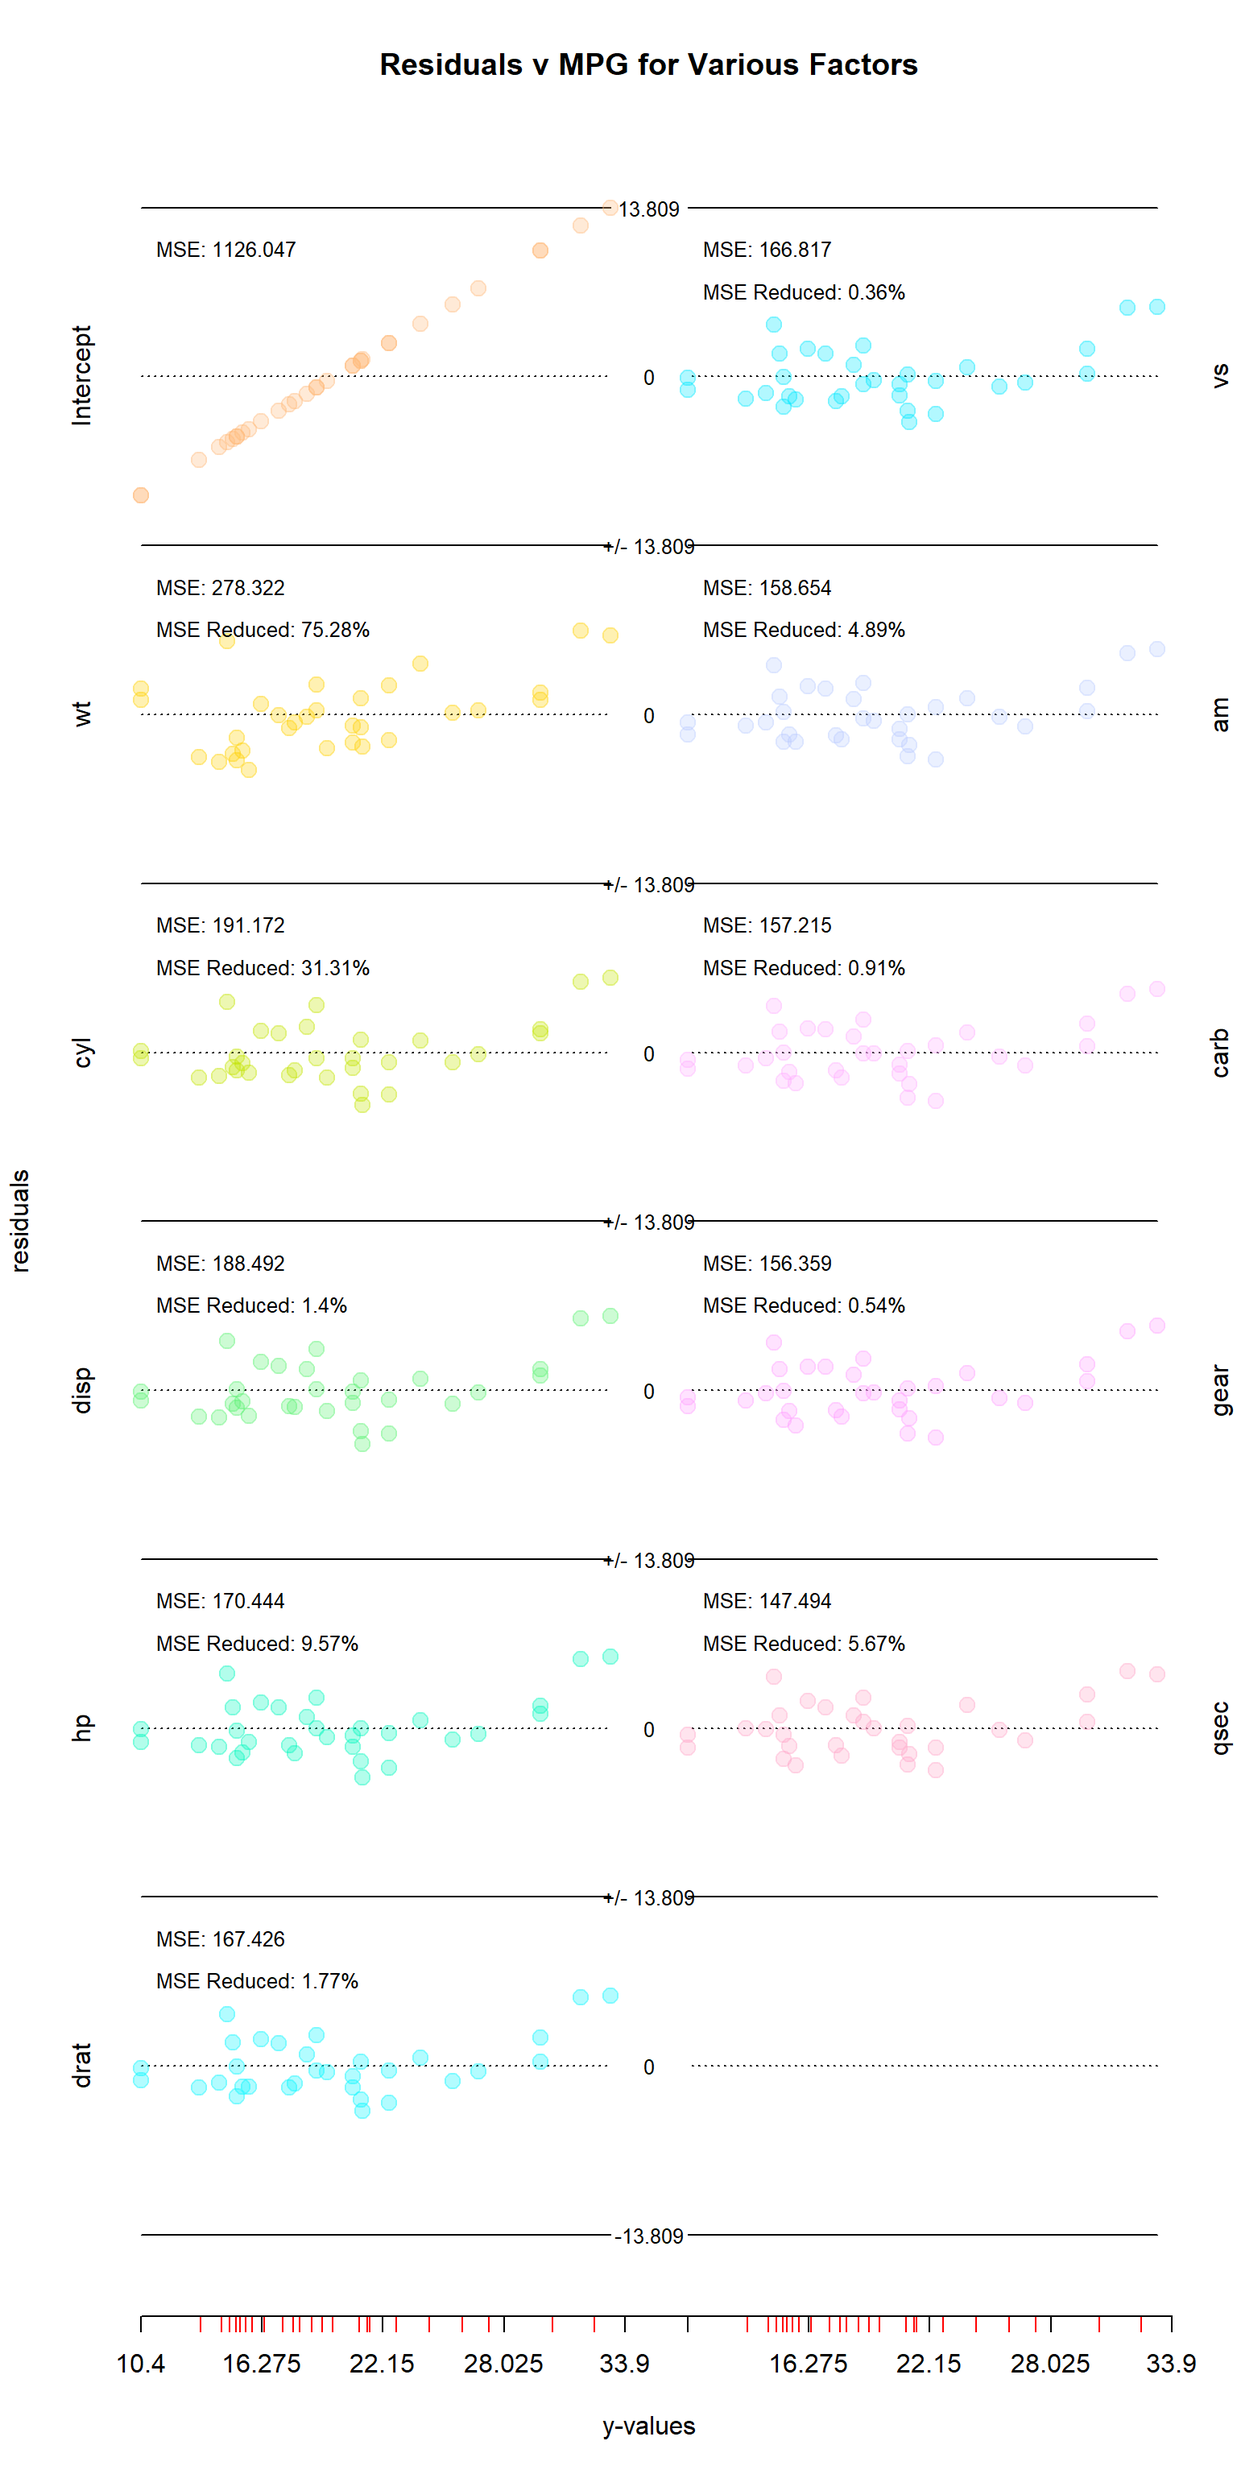
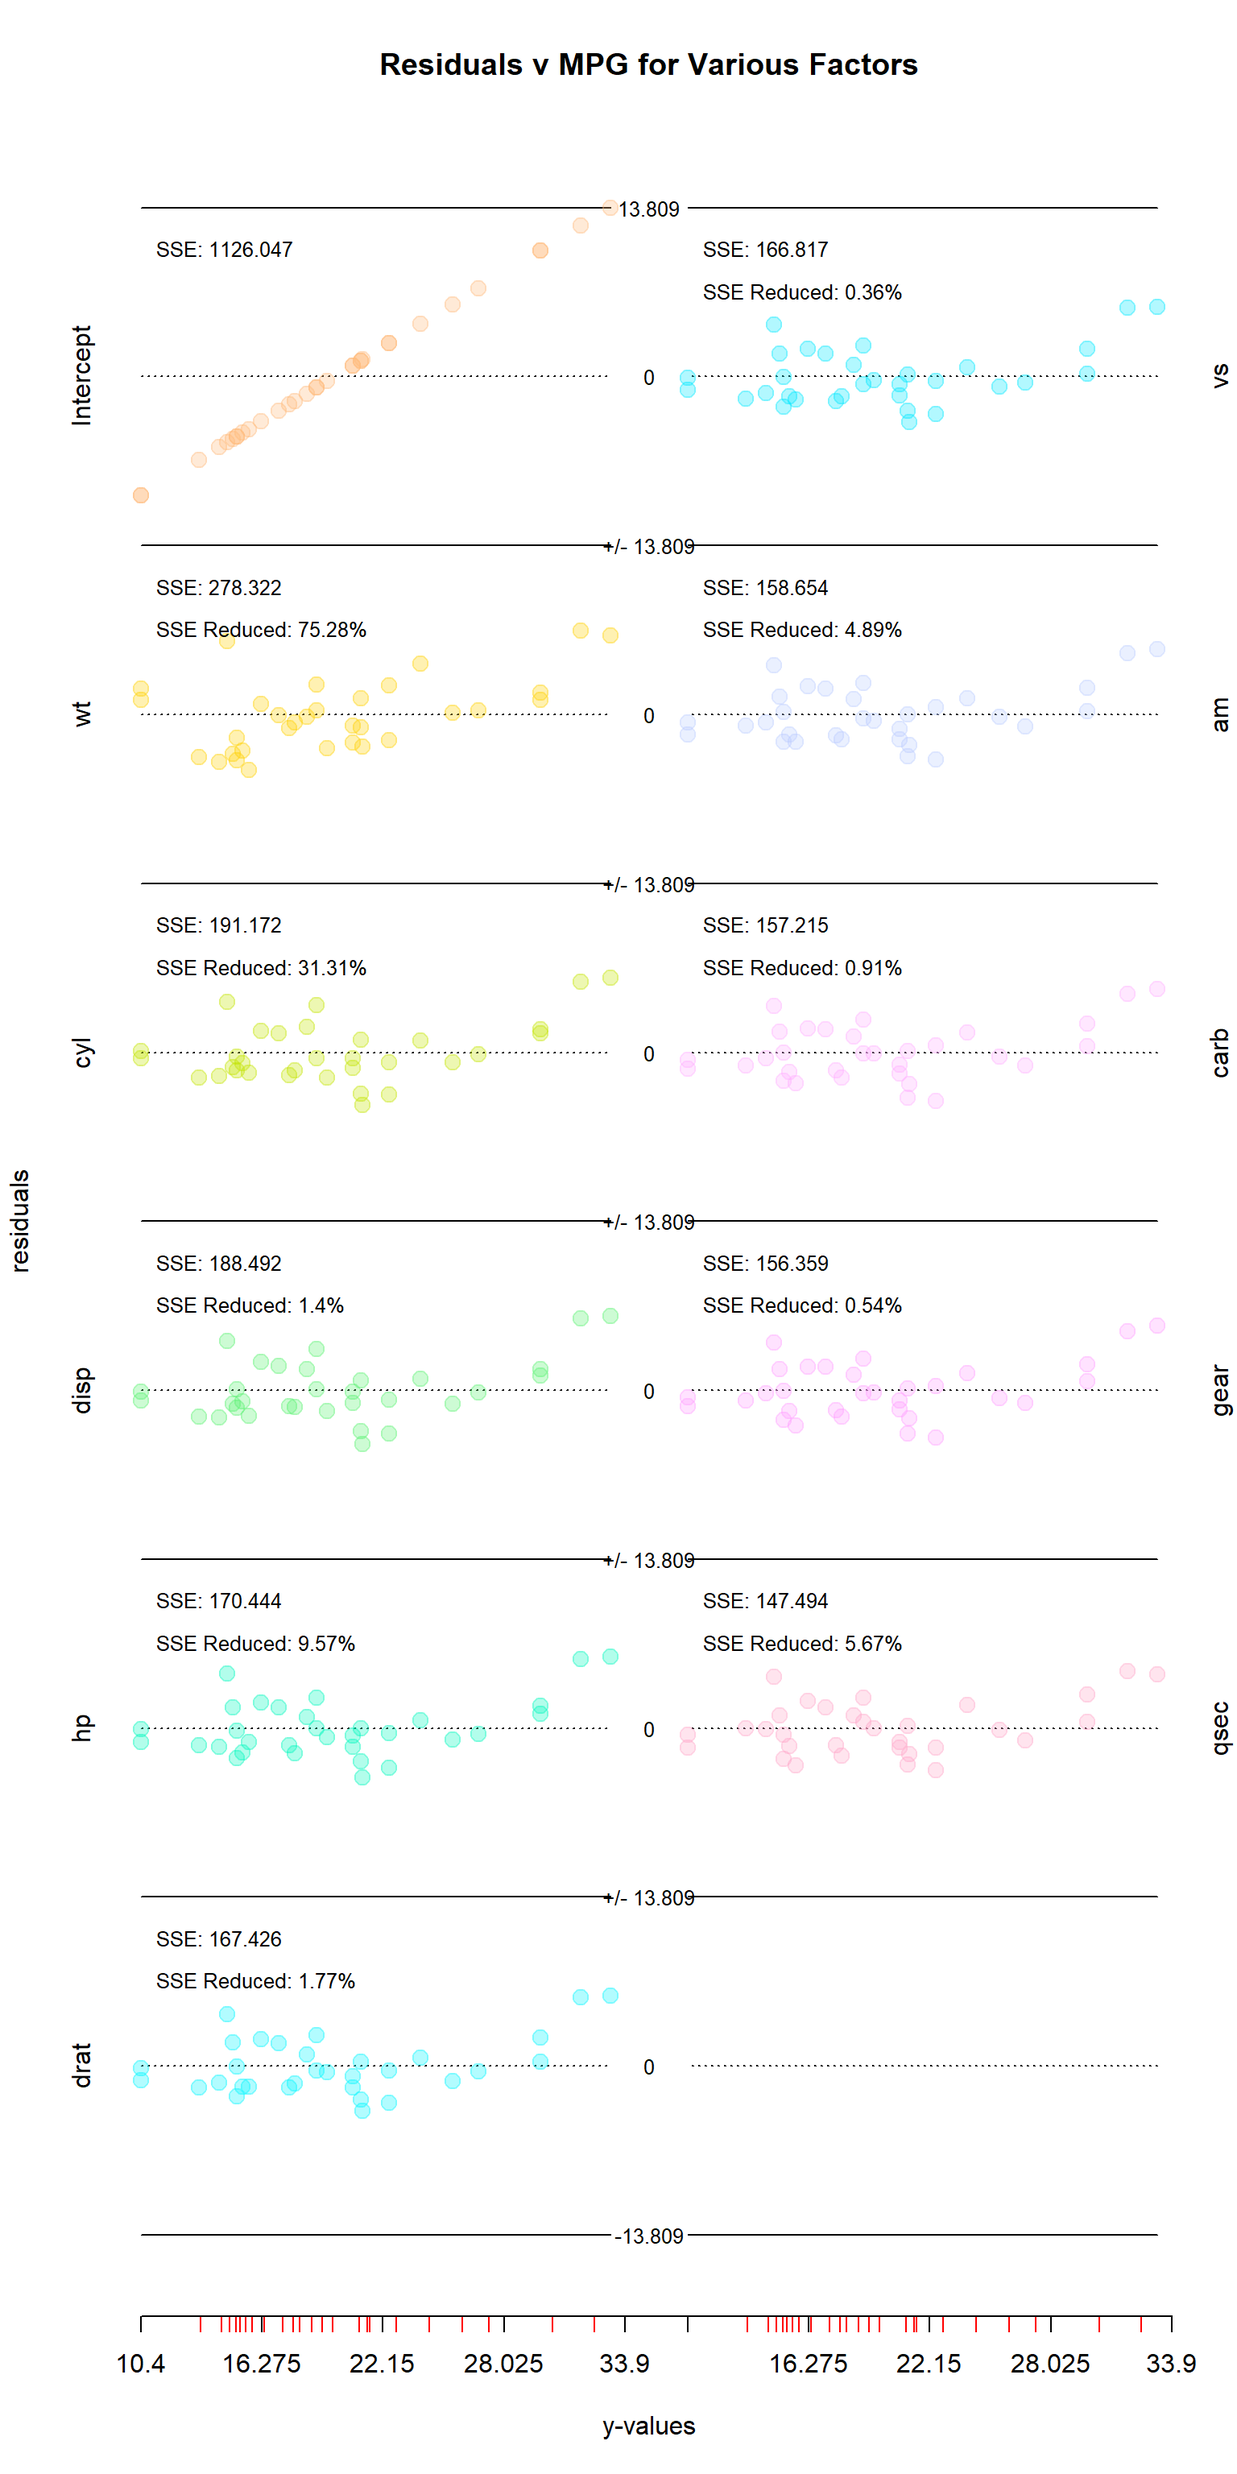
fixed a labeling error

diff --git a/docs/articles/demo.html b/docs/articles/demo.html
@@ -105,10 +105,10 @@
 <a class="sourceLine" id="cb2-8" title="8"><span class="co">#&gt; Hornet Sportabout 18.7   8  360 175 3.15 3.440 17.02  0  0    3    2</span></a>
 <a class="sourceLine" id="cb2-9" title="9"><span class="co">#&gt; Valiant           18.1   6  225 105 2.76 3.460 20.22  1  0    3    1</span></a></code></pre></div>
 </div>
-<div id="order-and-mse" class="section level1">
+<div id="order-and-sse" class="section level1">
 <h1 class="hasAnchor">
-<a href="#order-and-mse" class="anchor"></a>Order and MSE</h1>
-<p>By default, the columns of the residuals matrix are ordered so that the intercept is in the first column, and the most significant variables come first. In this case, significance is determined by which columns give the lowest MSE in predicting the response vector when alone. This does not, however, mean that they will be significant when applied alongside other variables.</p>
+<a href="#order-and-sse" class="anchor"></a>Order and SSE</h1>
+<p>By default, the columns of the residuals matrix are ordered so that the intercept is in the first column, and the most significant variables come first. In this case, significance is determined by which columns give the lowest SSE in predicting the response vector when alone. This does not, however, mean that they will be significant when applied alongside other variables.</p>
 <div class="sourceCode" id="cb3"><pre class="sourceCode r"><code class="sourceCode r"><a class="sourceLine" id="cb3-1" title="1">y&lt;-mtcars<span class="op">$</span>mpg</a>
 <a class="sourceLine" id="cb3-2" title="2">x&lt;-mtcars[,<span class="op">-</span><span class="dv">1</span>]</a>
 <a class="sourceLine" id="cb3-3" title="3">res&lt;-StepRegression<span class="op">::</span><span class="kw"><a href="https://rdrr.io/pkg/StepRegression/man/step_regression.html">step_regression</a></span>(x,y,<span class="dt">addIntercept=</span><span class="ot">TRUE</span>)</a>
@@ -131,9 +131,15 @@
 <div id="res_plotter-and-res_plotter_double" class="section level1">
 <h1 class="hasAnchor">
 <a href="#res_plotter-and-res_plotter_double" class="anchor"></a>res_plotter() and res_plotter_double()</h1>
-<p>There are two built-in plotting functions for this package: res_plotter() and res_plotter_double(). They both create residuals vs values sub-plots for each variable, with each corner containing the MSE after each variable is added to the regression, and the percent by which each variable reduced the MSE. The only difference between the two functions is that res_plotter_double has two columns of plots.</p>
+<p>There are two built-in plotting functions for this package: res_plotter() and res_plotter_double(). They both create residuals vs values sub-plots for each variable, with each corner containing the SSE after each variable is added to the regression, and the percent by which each variable reduced the SSE. The only difference between the two functions is that res_plotter_double has two columns of plots.</p>
 <div class="sourceCode" id="cb4"><pre class="sourceCode r"><code class="sourceCode r"><a class="sourceLine" id="cb4-1" title="1"><span class="kw"><a href="../reference/res_plotter_double.html">res_plotter_double</a></span>(res,y,<span class="dt">main=</span><span class="st">"Residuals v MPG for Various Factors"</span>)</a></code></pre></div>
-<p><img src="demo_files/figure-html/mtcars_visual-1.png" width="768"> # Utility This function has two main uses. First, it helps identify which variables to include in a multivariate regression. Looking at the mtcars visual, it is interesting to note that several variables that seemed important when examined in isolation are found to do little to imporve the MSE when others are included as well. The “disp” (displacement), “drat” (rear axle ratio), “vs” (v-shape vs inline), “carb” (number of carburetors) and “gear” all turned out to be less important than they initially seemed, while the opposite could be said for “hp” (horsepower), “am” (manual vs automatic), and “qsec” (quarter mile time). The second use is helping to understand how regressions work. Rather than regress all of the variables together, step_regression regresses each out of y and the remaining x variables. Each step is essentially applying regression to the residuals leftover.</p>
+<p><img src="demo_files/figure-html/mtcars_visual-1.png" width="768"></p>
+</div>
+<div id="utility" class="section level1">
+<h1 class="hasAnchor">
+<a href="#utility" class="anchor"></a>Utility</h1>
+<p>This function has two main uses. First, it helps identify which variables to include in a multivariate regression. Looking at the mtcars visual, it is interesting to note that several variables that seemed important when examined in isolation are found to do little to improve the SSE when others are included as well. The “disp” (displacement), “drat” (rear axle ratio), “vs” (v-shape vs inline), “carb” (number of carburetors) and “gear” all turned out to be less important than they initially seemed, while the opposite could be said for “hp” (horsepower), “am” (manual vs automatic), and “qsec” (quarter mile time).</p>
+<p>The second use is helping to understand how regressions work. Rather than regress all of the variables together, step_regression regresses each out of y and the remaining x variables. Each step is essentially applying regression to the residuals leftover.</p>
 <div class="sourceCode" id="cb5"><pre class="sourceCode r"><code class="sourceCode r"><a class="sourceLine" id="cb5-1" title="1"><span class="kw"><a href="https://rdrr.io/r/utils/data.html">data</a></span>(swiss)</a>
 <a class="sourceLine" id="cb5-2" title="2"><span class="kw"><a href="https://rdrr.io/r/utils/head.html">head</a></span>(swiss)</a>
 <a class="sourceLine" id="cb5-3" title="3"><span class="co">#&gt;              Fertility Agriculture Examination Education Catholic</span></a>
@@ -159,7 +165,17 @@
 <a class="sourceLine" id="cb6-2" title="2">x&lt;-swiss[,<span class="kw"><a href="https://rdrr.io/r/base/c.html">c</a></span>(<span class="op">-</span><span class="dv">1</span>,<span class="op">-</span><span class="dv">6</span>)]</a>
 <a class="sourceLine" id="cb6-3" title="3">res&lt;-<span class="kw"><a href="../reference/step_regression.html">step_regression</a></span>(x,y,<span class="dt">addIntercept=</span><span class="ot">TRUE</span>)</a>
 <a class="sourceLine" id="cb6-4" title="4"><span class="kw"><a href="../reference/res_plotter.html">res_plotter</a></span>(res,y,<span class="dt">main=</span><span class="st">"Residuals of Fertility by Various Factors"</span>)</a></code></pre></div>
-<p><img src="demo_files/figure-html/swiss_example-1.png" width="768"> # Under the Hood using mtcars dataset As mentiond above, this package works by regressing one variable out at a time from the response vector and all other variables in the design matrix. For each variable except the last, the function is essentially doing two regressions: the first on y, and the second on the other x variables. Then, the residuals for both y and the remaining x variables are calculated, and the function is then repeated, regressing one variable out at a time until none remain. Below I’ve included a proof, checking each step with the lm() function. To avoid too much repetition, several variables will be regressed at once. For the first step, I’ve performed a regression on all of the variables in mtcars–one using linear algebra and the second using lm(). The second does two: the y-intercept and “cyl” column. Notice that while the coefficients match those for the lm() function, neither of these match the first multivariate regression performed. While doing a regression in steps like this can be useful for examining the work each variable is doing to explain y, getting correct coefficients for all of the variables would require doing all of the variables at once. In each step though, whether regressing out 2, 6, 1, or any number of variables, the coefficients are the same (with room for floating point errors) as when one uses the lm() function to do the entire regression at once. However, results will vary between two different uses of stepRegression if one regresses the variables in different orders or different groups. A stepwise regression is more a tool for examining residuals than coefficients. ## EXAMPLE 1: Regress using all independent variables at once</p>
+<p><img src="demo_files/figure-html/swiss_example-1.png" width="768"></p>
+</div>
+<div id="under-the-hood-using-mtcars-dataset" class="section level1">
+<h1 class="hasAnchor">
+<a href="#under-the-hood-using-mtcars-dataset" class="anchor"></a>Under the Hood using mtcars dataset</h1>
+<p>As mentiond above, this package works by regressing one variable out at a time from the response vector and all other variables in the design matrix. For each variable except the last, the function is essentially doing two regressions: the first on y, and the second on the other x variables. Then, the residuals for both y and the remaining x variables are calculated, and the function is then repeated, regressing one variable out at a time until none remain.</p>
+<p>Below I’ve included a proof, checking each step with the lm() function. To avoid too much repetition, several variables will be regressed at once. For the first step, I’ve performed a regression on all of the variables in mtcars–one using linear algebra and the second using lm(). The second does two: the y-intercept and “cyl” column. Notice that while the coefficients match those for the lm() function, neither of these match the first multivariate regression performed. While doing a regression in steps like this can be useful for examining the work each variable is doing to explain y, getting correct coefficients for all of the variables would require doing all of the variables at once.</p>
+<p>In each step though, whether regressing out 2, 6, 1, or any number of variables, the coefficients are the same (with room for floating point errors) as when one uses the lm() function to do the entire regression at once. However, results will vary between two different uses of stepRegression if one regresses the variables in different orders or different groups. A stepwise regression is more a tool for examining residuals than coefficients.</p>
+<div id="example-1-regress-using-all-independent-variables-at-once" class="section level2">
+<h2 class="hasAnchor">
+<a href="#example-1-regress-using-all-independent-variables-at-once" class="anchor"></a>EXAMPLE 1: Regress using all independent variables at once</h2>
 <div class="sourceCode" id="cb7"><pre class="sourceCode r"><code class="sourceCode r"><a class="sourceLine" id="cb7-1" title="1"><span class="kw"><a href="https://rdrr.io/r/utils/data.html">data</a></span>(mtcars)</a>
 <a class="sourceLine" id="cb7-2" title="2">y &lt;-<span class="st"> </span>mtcars<span class="op">$</span>mpg</a>
 <a class="sourceLine" id="cb7-3" title="3">x &lt;-<span class="st"> </span><span class="kw"><a href="https://rdrr.io/r/base/matrix.html">as.matrix</a></span>(<span class="kw"><a href="https://rdrr.io/r/base/cbind.html">cbind</a></span>(<span class="dv">1</span>,mtcars[,<span class="op">-</span><span class="dv">1</span>]))</a>
@@ -182,6 +198,7 @@
 <a class="sourceLine" id="cb7-20" title="20"><span class="co">#&gt;       xqsec         xvs         xam       xgear       xcarb </span></a>
 <a class="sourceLine" id="cb7-21" title="21"><span class="co">#&gt;  0.82104075  0.31776281  2.52022689  0.65541302 -0.19941925</span></a>
 <a class="sourceLine" id="cb7-22" title="22">x &lt;-<span class="st"> </span><span class="kw"><a href="https://rdrr.io/r/base/cbind.html">cbind</a></span>(<span class="kw"><a href="https://rdrr.io/r/base/c.html">c</a></span>(<span class="dv">1</span>),x); <span class="kw"><a href="https://rdrr.io/r/base/colnames.html">colnames</a></span>(x)[<span class="dv">1</span>] &lt;-<span class="st"> "Intercept"</span></a></code></pre></div>
+</div>
 <div id="example-2-regress-two-variables-twice-all-but-the-last-then-the-last-variable" class="section level2">
 <h2 class="hasAnchor">
 <a href="#example-2-regress-two-variables-twice-all-but-the-last-then-the-last-variable" class="anchor"></a>EXAMPLE 2: Regress two variables twice, all but the last, then the last variable</h2>
@@ -305,11 +322,14 @@
       <ul class="nav nav-pills nav-stacked">
 <li><a href="#step-regression">Step Regression</a></li>
       <li><a href="#example-one-mtcars">Example One: mtcars</a></li>
-      <li><a href="#order-and-mse">Order and MSE</a></li>
+      <li><a href="#order-and-sse">Order and SSE</a></li>
       <li><a href="#res_plotter-and-res_plotter_double">res_plotter() and res_plotter_double()</a></li>
+      <li><a href="#utility">Utility</a></li>
+      <li><a href="#swiss-example-res_plotter">Swiss Example &amp; res_plotter()</a></li>
       <li>
-<a href="#swiss-example-res_plotter">Swiss Example &amp; res_plotter()</a><ul class="nav nav-pills nav-stacked">
-<li><a href="#example-2-regress-two-variables-twice-all-but-the-last-then-the-last-variable">EXAMPLE 2: Regress two variables twice, all but the last, then the last variable</a></li>
+<a href="#under-the-hood-using-mtcars-dataset">Under the Hood using mtcars dataset</a><ul class="nav nav-pills nav-stacked">
+<li><a href="#example-1-regress-using-all-independent-variables-at-once">EXAMPLE 1: Regress using all independent variables at once</a></li>
+      <li><a href="#example-2-regress-two-variables-twice-all-but-the-last-then-the-last-variable">EXAMPLE 2: Regress two variables twice, all but the last, then the last variable</a></li>
       </ul>
 </li>
       <li><a href="#conclusion">Conclusion</a></li>

diff --git a/docs/articles/yearly_report_analysis.html b/docs/articles/yearly_report_analysis.html
@@ -162,7 +162,7 @@
 <div id="step-regression-and-variable-selection" class="section level2">
 <h2 class="hasAnchor">
 <a href="#step-regression-and-variable-selection" class="anchor"></a>Step Regression and Variable Selection</h2>
-<p>To choose variables for the sub-models, this notebook uses a stepwise regression to find which figures have the most explanatory power for 5-day price changes. The step_regression function makes a rough estimate of which variables in a design matrix are most sigificant, then regresses them out one-by-one and calculates how the residuals change. We then plot the changing residuals with their Mean-Squared Error and how much each subsequent variable reduces the MSE.</p>
+<p>To choose variables for the sub-models, this notebook uses a stepwise regression to find which figures have the most explanatory power for 5-day price changes. The step_regression function makes a rough estimate of which variables in a design matrix are most sigificant, then regresses them out one-by-one and calculates how the residuals change. We then plot the changing residuals with their Mean-Squared Error and how much each subsequent variable reduces the SSE</p>
 <p>Looking at the results, there are two variables that stand out: earnings per share and the pre-tax profit margin. Once these two are included, none of the other variables explains so much as 1% of the the variation. Moreover, these are clearly important variables: the question was simply whether they were more or less important than the post-tax profit margin or the pre/post-tax return on equity. Thus for our sub-models, we will be using these two and no others.</p>
 <div class="sourceCode" id="cb9"><pre class="sourceCode r"><code class="sourceCode r"><a class="sourceLine" id="cb9-1" title="1">x &lt;-<span class="st"> </span>stock_data[,<span class="kw"><a href="https://rdrr.io/r/base/c.html">c</a></span>(<span class="dv">1</span><span class="op">:</span><span class="dv">7</span>)]</a>
 <a class="sourceLine" id="cb9-2" title="2">x =<span class="st"> </span><span class="kw"><a href="https://rdrr.io/r/base/matrix.html">as.matrix</a></span>(x)</a>
